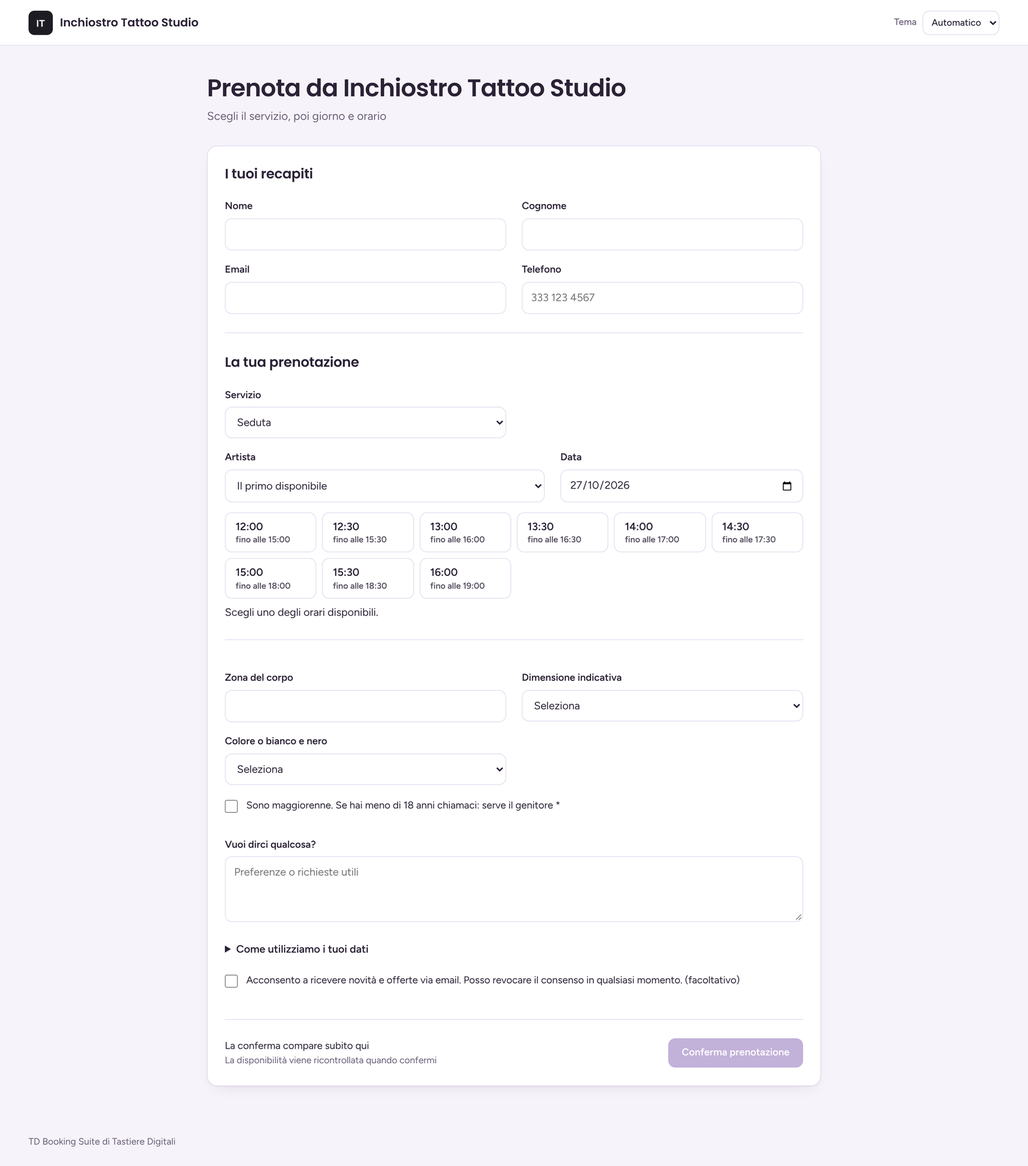
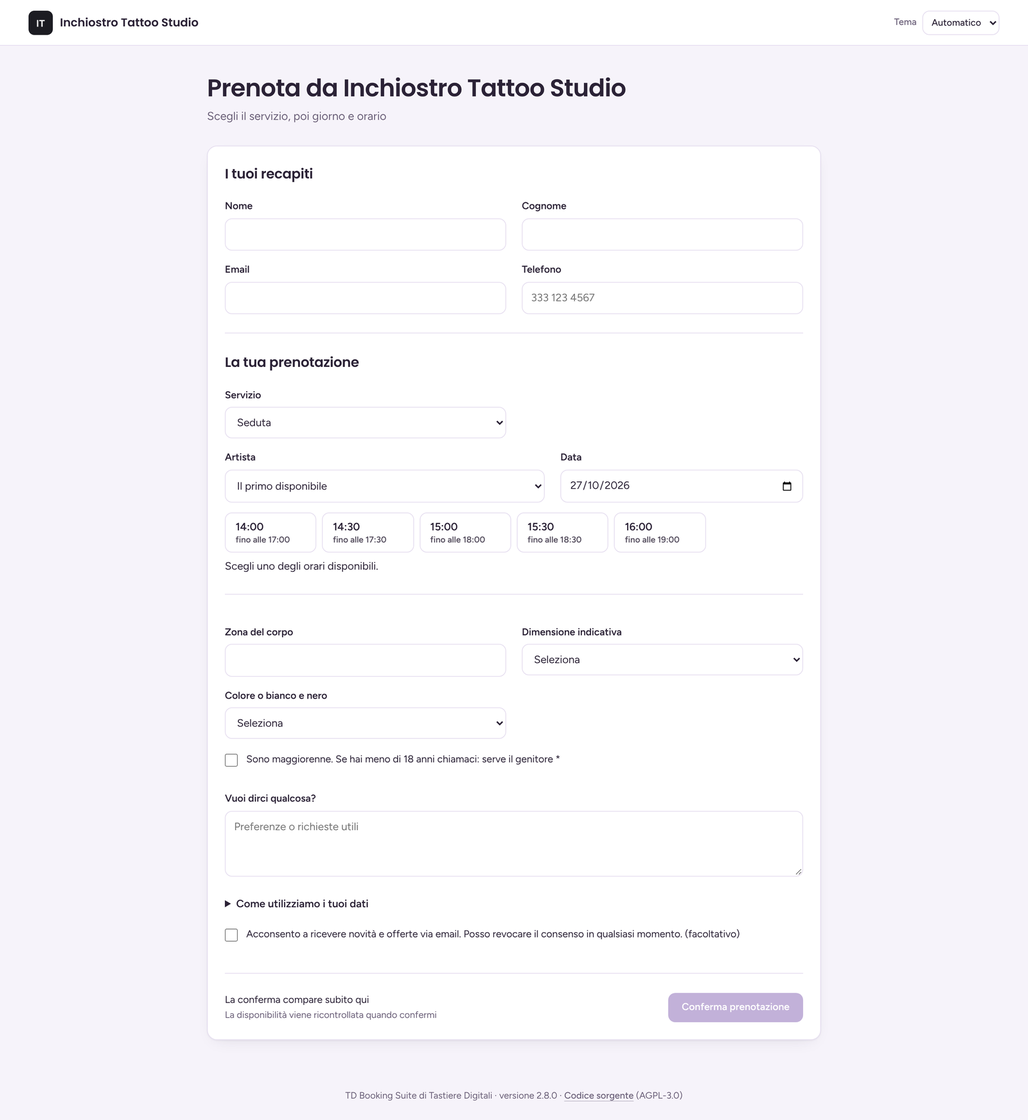
Piede di pagina con versione e codice sorgente (AGPL-3.0), in basso al centro in tutte le pagine
Nella pagina di accesso nome, Privacy e licenza escono dalla colonna del modulo
e vanno in una riga in fondo alla pagina. TDBS_SOURCE_URL cambia o nasconde il link.

Claude-Session: https://claude.ai/code/session_01HhmNK72iFx9khDS8UGdcof

diff --git a/templates/base.html b/templates/base.html
@@ -1,1 +1,1 @@
-{% load static %}<!doctype html><html lang="it"><head><meta charset="utf-8"><meta name="viewport" content="width=device-width,initial-scale=1"><meta name="color-scheme" content="light dark"><title>{% if tenant %}{{ tenant.name }}{% else %}{{ site.name }}{% endif %}</title><link rel="icon" href="{% url 'site_favicon' %}?v={{ site.version }}"><link rel="stylesheet" href="{% static 'app.css' %}">{% if not public %}<link rel="stylesheet" href="{% url 'site_css' %}?v={{ site.version }}">{% endif %}{% if tenant and public %}<link rel="stylesheet" href="{% url 'brand_css' tenant.slug %}">{% endif %}<script src="{% static 'app.js' %}" defer></script></head><body class="{% if public %}public{% endif %}"{% block autofill %}{% if public %} data-autofill="contact"{% endif %}{% endblock %}><a class="skip" href="#main">Vai al contenuto</a>{% if user.is_authenticated and mfa_ok and not public %}<aside class="sidebar"><a class="logo{% if site.dark_wide %} logo-wide{% endif %}" href="/">{% include '_brand.html' with surface='dark' %}<span>{% if not site.dark_wide %}{% if edition == 'private' and tenant %}{{ tenant.name }}{% else %}{{ site.name }}{% endif %}{% endif %}<small>{% if site.dark_wide and edition == 'private' and tenant %}{{ tenant.name }}, {% endif %}Edizione {% if edition == 'private' %}Private{% else %}Cloud{% endif %}</small></span></a><button type="button" class="menu-toggle" data-menu aria-expanded="false"><span class="burger" aria-hidden="true"><i></i><i></i><i></i></span>Menu</button>{% if user.is_staff %}<nav aria-label="Area agenzia"><div class="nav-label">Area agenzia</div><a href="{% url 'platform' %}">Dashboard</a><a href="{% url 'clients' %}">Clienti</a>{% if edition == 'cloud' %}<a href="{% url 'trial_requests' %}">Richieste di prova{% if trial_new %} <span class="nav-count">{{ trial_new }}</span>{% endif %}</a>{% endif %}<a href="{% url 'site_settings' %}">Impostazioni generali</a>{% if edition == 'cloud' %}<a href="{% url 'pricing_admin' %}">Prezzi e versioni</a><a href="{% url 'site_plugin' %}">Plugin WordPress</a>{% endif %}{% if not tenant %}<a href="{% url 'guide' %}">Guida</a>{% endif %}</nav>{% endif %}{% if tenant %}<div class="workspace">{% if tenant.logo %}<span class="workspace-logo{% if tenant.logo_wide %} wide{% endif %}"><img src="{% url 'brand_logo' tenant.slug %}" alt=""></span>{% endif %}<span class="eyebrow">Stai lavorando in</span><strong>{{ tenant.name }}</strong><span class="role">{% if member %}{{ member.get_role_display }}{% elif support %}Assistenza dell'agenzia, fino alle {{ support.expires|date:"H:i" }}{% else %}Agenzia: solo gestione tecnica{% endif %}</span></div><nav aria-label="Menu dell'attività">{% if support %}<p class="notice">Ogni pagina che apri viene registrata e l'amministratore dell'attività la vede nel registro</p>{% endif %}{% if 'booking.read' in can or 'contacts.read' in can %}<div class="nav-label">Ogni giorno</div>{% if 'booking.read' in can %}<a href="{% url 'dashboard' tenant.slug %}">Dashboard</a><a href="{% url 'bookings' tenant.slug %}">Agenda e prenotazioni</a>{% endif %}{% if 'contacts.read' in can %}<a href="{% url 'contacts' tenant.slug %}">Clienti</a>{% endif %}{% endif %}{% if 'catalog.write' in can or 'users.manage' in can %}<div class="nav-label">La tua attività</div>{% if 'catalog.write' in can %}<a href="{% url 'setup' tenant.slug %}">Configura l'attività</a>{% endif %}{% if 'users.manage' in can %}<a href="{% url 'members' tenant.slug %}">Persone e permessi</a>{% endif %}{% endif %}{% if 'campaign.manage' in can or 'users.manage' in can %}<div class="nav-label">Comunicazioni</div>{% if 'campaign.manage' in can %}<a href="{% url 'marketing' tenant.slug %}">Marketing</a>{% endif %}{% if 'users.manage' in can %}<a href="{% url 'notifications' tenant.slug %}">Notifiche</a>{% endif %}{% endif %}{% if 'audit.read' in can or 'users.manage' in can %}<div class="nav-label">Controlli</div>{% if 'audit.read' in can %}<a href="{% url 'audit' tenant.slug %}">Registro attività</a>{% endif %}{% if 'users.manage' in can %}<a href="{% url 'support_grants' tenant.slug %}">Accesso dell'agenzia</a>{% endif %}{% endif %}{% if user.is_staff %}<div class="nav-label">Gestione tecnica, solo agenzia</div>{% if not member %}<a href="{% url 'members' tenant.slug %}">Persone e permessi</a>{% endif %}<a href="{% url 'tenant_settings' tenant.slug %}">Impostazioni e sito</a><a href="{% url 'smtp' tenant.slug %}">Invio email</a>{% endif %}<div class="nav-label">Aiuto</div><a href="{% url 'tenant_guide' tenant.slug %}">Guida</a></nav>{% elif not user.is_staff %}<nav><a href="/">Le tue attività</a><a href="{% url 'guide' %}">Guida</a></nav>{% endif %}<div class="sidebar-bottom"><span class="who">{{ user.email }}</span><span class="who-role">{% if user.is_staff %}Amministratore dell'agenzia{% elif member %}{{ member.get_role_display }}{% endif %}</span><a href="{% url 'security' %}">Account e sicurezza</a></div></aside>{% endif %}<div class="shell {% if not user.is_authenticated or not mfa_ok or public %}full{% endif %}">{% block topbar %}<header class="topbar"><div>{% if public %}<a class="wordmark" href="{% url 'public_booking' tenant.slug %}">{% if tenant.logo %}<img class="brand-logo{% if tenant.logo_wide %} wide{% endif %}" src="{% url 'brand_logo' tenant.slug %}" alt="{% if tenant.logo_wide %}{{ tenant.name }}{% endif %}">{% endif %}{% if not tenant.logo_wide %}{{ tenant.name }}{% endif %}</a>{% elif tenant %}<span class="crumb">{% if tenant.logo %}<img class="crumb-logo{% if tenant.logo_wide %} wide{% endif %}" src="{% url 'brand_logo' tenant.slug %}" alt="">{% endif %}{% if user.is_staff %}<a href="{% url 'platform' %}">Area agenzia</a> <span aria-hidden="true">/</span> <a href="{% url 'client' tenant.slug %}"><strong>{{ tenant.name }}</strong></a>{% else %}<strong>{{ tenant.name }}</strong>{% endif %} <span class="badge">{% if member %}{{ member.get_role_display }}{% elif support %}Assistenza{% else %}Gestione tecnica{% endif %}</span></span>{% elif user.is_authenticated and mfa_ok %}<span class="crumb">{% if user.is_staff %}<strong>Area agenzia</strong> <span class="badge">Amministratore</span>{% else %}Le tue attività{% endif %}</span>{% else %}<a class="wordmark" href="/">{% include '_brand.html' with surface='auto' %}{% if not site.light_wide %}{{ site.name }}{% endif %}</a>{% endif %}</div><div class="toolbar"><label class="theme-label">Tema<select id="theme-choice" aria-label="Tema"><option value="auto">Automatico</option><option value="light">Chiaro</option><option value="dark">Scuro</option></select></label>{% if user.is_authenticated and not public %}<form method="post" action="{% url 'logout' %}">{% csrf_token %}<button class="ghost small">Esci</button></form>{% endif %}</div></header>{% endblock %}<main id="main">{% block notices %}{% if mfa_missing %}<div class="notice warning nudge" role="note"><div><strong>Proteggi il tuo account</strong><span>Ora entri solo con la password. Aggiungi Authenticator o una passkey: servono due minuti</span></div><a class="button small primary" href="{% url 'security' %}">Attiva ora</a></div>{% endif %}{% if messages %}<div aria-live="polite">{% for m in messages %}<div class="notice {{ m.tags }}">{{ m }}</div>{% endfor %}</div>{% endif %}{% if error %}<div class="notice error" role="alert">{{ error }}</div>{% endif %}{% endblock %}{% block content %}{% endblock %}</main>{% block footer %}<footer>{% if edition == 'private' and tenant %}{{ tenant.name }} · Area riservata{% else %}{{ site.name }}{% if site.owner_name %} di {{ site.owner_name }}{% endif %}{% endif %}{% if site.support_email or site.support_phone %} · Assistenza: {% if site.support_email %}<a href="mailto:{{ site.support_email }}">{{ site.support_email }}</a>{% endif %}{% if site.support_email and site.support_phone %}, {% endif %}{{ site.support_phone }}{% endif %}</footer>{% endblock %}</div>{% block scripts %}{% endblock %}</body></html>
+{% load static %}<!doctype html><html lang="it"><head><meta charset="utf-8"><meta name="viewport" content="width=device-width,initial-scale=1"><meta name="color-scheme" content="light dark"><title>{% if tenant %}{{ tenant.name }}{% else %}{{ site.name }}{% endif %}</title><link rel="icon" href="{% url 'site_favicon' %}?v={{ site.version }}"><link rel="stylesheet" href="{% static 'app.css' %}">{% if not public %}<link rel="stylesheet" href="{% url 'site_css' %}?v={{ site.version }}">{% endif %}{% if tenant and public %}<link rel="stylesheet" href="{% url 'brand_css' tenant.slug %}">{% endif %}<script src="{% static 'app.js' %}" defer></script></head><body class="{% if public %}public{% endif %}"{% block autofill %}{% if public %} data-autofill="contact"{% endif %}{% endblock %}><a class="skip" href="#main">Vai al contenuto</a>{% if user.is_authenticated and mfa_ok and not public %}<aside class="sidebar"><a class="logo{% if site.dark_wide %} logo-wide{% endif %}" href="/">{% include '_brand.html' with surface='dark' %}<span>{% if not site.dark_wide %}{% if edition == 'private' and tenant %}{{ tenant.name }}{% else %}{{ site.name }}{% endif %}{% endif %}<small>{% if site.dark_wide and edition == 'private' and tenant %}{{ tenant.name }}, {% endif %}Edizione {% if edition == 'private' %}Private{% else %}Cloud{% endif %}</small></span></a><button type="button" class="menu-toggle" data-menu aria-expanded="false"><span class="burger" aria-hidden="true"><i></i><i></i><i></i></span>Menu</button>{% if user.is_staff %}<nav aria-label="Area agenzia"><div class="nav-label">Area agenzia</div><a href="{% url 'platform' %}">Dashboard</a><a href="{% url 'clients' %}">Clienti</a>{% if edition == 'cloud' %}<a href="{% url 'trial_requests' %}">Richieste di prova{% if trial_new %} <span class="nav-count">{{ trial_new }}</span>{% endif %}</a>{% endif %}<a href="{% url 'site_settings' %}">Impostazioni generali</a>{% if edition == 'cloud' %}<a href="{% url 'pricing_admin' %}">Prezzi e versioni</a><a href="{% url 'site_plugin' %}">Plugin WordPress</a>{% endif %}{% if not tenant %}<a href="{% url 'guide' %}">Guida</a>{% endif %}</nav>{% endif %}{% if tenant %}<div class="workspace">{% if tenant.logo %}<span class="workspace-logo{% if tenant.logo_wide %} wide{% endif %}"><img src="{% url 'brand_logo' tenant.slug %}" alt=""></span>{% endif %}<span class="eyebrow">Stai lavorando in</span><strong>{{ tenant.name }}</strong><span class="role">{% if member %}{{ member.get_role_display }}{% elif support %}Assistenza dell'agenzia, fino alle {{ support.expires|date:"H:i" }}{% else %}Agenzia: solo gestione tecnica{% endif %}</span></div><nav aria-label="Menu dell'attività">{% if support %}<p class="notice">Ogni pagina che apri viene registrata e l'amministratore dell'attività la vede nel registro</p>{% endif %}{% if 'booking.read' in can or 'contacts.read' in can %}<div class="nav-label">Ogni giorno</div>{% if 'booking.read' in can %}<a href="{% url 'dashboard' tenant.slug %}">Dashboard</a><a href="{% url 'bookings' tenant.slug %}">Agenda e prenotazioni</a>{% endif %}{% if 'contacts.read' in can %}<a href="{% url 'contacts' tenant.slug %}">Clienti</a>{% endif %}{% endif %}{% if 'catalog.write' in can or 'users.manage' in can %}<div class="nav-label">La tua attività</div>{% if 'catalog.write' in can %}<a href="{% url 'setup' tenant.slug %}">Configura l'attività</a>{% endif %}{% if 'users.manage' in can %}<a href="{% url 'members' tenant.slug %}">Persone e permessi</a>{% endif %}{% endif %}{% if 'campaign.manage' in can or 'users.manage' in can %}<div class="nav-label">Comunicazioni</div>{% if 'campaign.manage' in can %}<a href="{% url 'marketing' tenant.slug %}">Marketing</a>{% endif %}{% if 'users.manage' in can %}<a href="{% url 'notifications' tenant.slug %}">Notifiche</a>{% endif %}{% endif %}{% if 'audit.read' in can or 'users.manage' in can %}<div class="nav-label">Controlli</div>{% if 'audit.read' in can %}<a href="{% url 'audit' tenant.slug %}">Registro attività</a>{% endif %}{% if 'users.manage' in can %}<a href="{% url 'support_grants' tenant.slug %}">Accesso dell'agenzia</a>{% endif %}{% endif %}{% if user.is_staff %}<div class="nav-label">Gestione tecnica, solo agenzia</div>{% if not member %}<a href="{% url 'members' tenant.slug %}">Persone e permessi</a>{% endif %}<a href="{% url 'tenant_settings' tenant.slug %}">Impostazioni e sito</a><a href="{% url 'smtp' tenant.slug %}">Invio email</a>{% endif %}<div class="nav-label">Aiuto</div><a href="{% url 'tenant_guide' tenant.slug %}">Guida</a></nav>{% elif not user.is_staff %}<nav><a href="/">Le tue attività</a><a href="{% url 'guide' %}">Guida</a></nav>{% endif %}<div class="sidebar-bottom"><span class="who">{{ user.email }}</span><span class="who-role">{% if user.is_staff %}Amministratore dell'agenzia{% elif member %}{{ member.get_role_display }}{% endif %}</span><a href="{% url 'security' %}">Account e sicurezza</a></div></aside>{% endif %}<div class="shell {% if not user.is_authenticated or not mfa_ok or public %}full{% endif %}">{% block topbar %}<header class="topbar"><div>{% if public %}<a class="wordmark" href="{% url 'public_booking' tenant.slug %}">{% if tenant.logo %}<img class="brand-logo{% if tenant.logo_wide %} wide{% endif %}" src="{% url 'brand_logo' tenant.slug %}" alt="{% if tenant.logo_wide %}{{ tenant.name }}{% endif %}">{% endif %}{% if not tenant.logo_wide %}{{ tenant.name }}{% endif %}</a>{% elif tenant %}<span class="crumb">{% if tenant.logo %}<img class="crumb-logo{% if tenant.logo_wide %} wide{% endif %}" src="{% url 'brand_logo' tenant.slug %}" alt="">{% endif %}{% if user.is_staff %}<a href="{% url 'platform' %}">Area agenzia</a> <span aria-hidden="true">/</span> <a href="{% url 'client' tenant.slug %}"><strong>{{ tenant.name }}</strong></a>{% else %}<strong>{{ tenant.name }}</strong>{% endif %} <span class="badge">{% if member %}{{ member.get_role_display }}{% elif support %}Assistenza{% else %}Gestione tecnica{% endif %}</span></span>{% elif user.is_authenticated and mfa_ok %}<span class="crumb">{% if user.is_staff %}<strong>Area agenzia</strong> <span class="badge">Amministratore</span>{% else %}Le tue attività{% endif %}</span>{% else %}<a class="wordmark" href="/">{% include '_brand.html' with surface='auto' %}{% if not site.light_wide %}{{ site.name }}{% endif %}</a>{% endif %}</div><div class="toolbar"><label class="theme-label">Tema<select id="theme-choice" aria-label="Tema"><option value="auto">Automatico</option><option value="light">Chiaro</option><option value="dark">Scuro</option></select></label>{% if user.is_authenticated and not public %}<form method="post" action="{% url 'logout' %}">{% csrf_token %}<button class="ghost small">Esci</button></form>{% endif %}</div></header>{% endblock %}<main id="main">{% block notices %}{% if mfa_missing %}<div class="notice warning nudge" role="note"><div><strong>Proteggi il tuo account</strong><span>Ora entri solo con la password. Aggiungi Authenticator o una passkey: servono due minuti</span></div><a class="button small primary" href="{% url 'security' %}">Attiva ora</a></div>{% endif %}{% if messages %}<div aria-live="polite">{% for m in messages %}<div class="notice {{ m.tags }}">{{ m }}</div>{% endfor %}</div>{% endif %}{% if error %}<div class="notice error" role="alert">{{ error }}</div>{% endif %}{% endblock %}{% block content %}{% endblock %}</main>{% block footer %}<footer>{% if edition == 'private' and tenant %}{{ tenant.name }} · Area riservata{% else %}{{ site.name }}{% if site.owner_name %} di {{ site.owner_name }}{% endif %}{% endif %}{% if site.support_email or site.support_phone %} · Assistenza: {% if site.support_email %}<a href="mailto:{{ site.support_email }}">{{ site.support_email }}</a>{% endif %}{% if site.support_email and site.support_phone %}, {% endif %}{{ site.support_phone }}{% endif %} · {% include '_license.html' %}</footer>{% endblock %}</div>{% block scripts %}{% endblock %}</body></html>

diff --git a/static/app.css b/static/app.css
@@ -81,7 +81,7 @@ textarea{resize:vertical}
 .theme-label{display:flex;align-items:center;gap:8px;margin:0;font-size:13px;font-weight:500;color:var(--muted)}
 .theme-label select{width:auto;min-height:34px;font-size:13px;padding:5px 8px}
 main{width:100%;max-width:1320px;margin:0 auto;padding:36px 40px 32px;flex:1}
-footer{color:var(--muted);font-size:13px;padding:16px 40px 24px}
+footer{color:var(--muted);font-size:13px;padding:16px 40px 24px;text-align:center}.foot-license a{color:inherit;text-decoration:underline;text-underline-offset:3px;text-decoration-color:color-mix(in srgb,currentColor 35%,transparent)}.foot-license a:hover{color:var(--ink)}
 
 /* headings and blocks */
 .page-heading{display:flex;align-items:flex-end;justify-content:space-between;gap:20px;margin-bottom:28px}
@@ -241,7 +241,7 @@ main>form>.actions:last-child{margin-bottom:24px}
 
 /* sign-in, 2.4.0: a living brand panel with a glimpse of the product, a calm form on the side */
 main:has(>.login){max-width:none;padding:0}
-.login{display:grid;grid-template-columns:minmax(0,1.15fr) minmax(420px,.85fr);min-height:100vh}
+.login{display:grid;grid-template-columns:minmax(0,1.15fr) minmax(420px,.85fr);grid-template-rows:1fr auto;min-height:100vh}.login-footer{grid-column:1/-1;display:flex;flex-wrap:wrap;justify-content:center;align-items:center;gap:6px 18px;padding:14px 24px 18px;border-top:1px solid var(--line);background:var(--paper)}
 .login-brand{position:relative;overflow:hidden;isolation:isolate;display:flex;flex-direction:column;gap:36px;padding:44px clamp(32px,5vw,72px);color:#f4eefb;background:linear-gradient(160deg,#35264b,#1f1829 72%)}
 .login-brand::before{content:"";position:absolute;inset:0;z-index:-1;background-image:radial-gradient(#ffffff1c 1px,transparent 1.2px);background-size:22px 22px;-webkit-mask-image:linear-gradient(180deg,#000,transparent 75%);mask-image:linear-gradient(180deg,#000,transparent 75%)}
 .orb{position:absolute;z-index:-2;border-radius:50%;filter:blur(60px);opacity:.75;will-change:transform}
@@ -311,7 +311,7 @@ main:has(>.login){max-width:none;padding:0}
 .passkey-button{min-height:46px}.passkey-button svg{width:18px;height:18px;fill:currentColor}
 .login-form .divider{margin:20px 0 14px}
 .login-help{font-size:13px;color:var(--muted);margin-top:22px}
-.login-foot{font-size:13px;color:var(--muted);margin:24px 0 0}
+.login-foot{font-size:13px;color:var(--muted)}
 @media(max-width:1360px){.stats{display:none}}
 /* 2.4.0 sign-in, second pass: spotlight, rotating business types, shining title, 3D stage, glowing card */
 .spot{position:absolute;z-index:-1;inset:0;background:radial-gradient(420px circle at var(--mx,70%) var(--my,30%),#ffffff1f,transparent 60%);transition:background .2s;pointer-events:none}
@@ -360,7 +360,7 @@ main:has(>.login){max-width:none;padding:0}
 @media(max-width:900px){.login-card{padding:28px 22px 24px;margin-top:0}.trial-cta{margin-bottom:0}.login-kicker{font-size:14px}}
 @media(max-width:420px){.pair{grid-template-columns:1fr}}
 @media(max-width:1100px){.preview-toast{right:-16px}}
-@media(max-width:900px){.login{grid-template-columns:1fr}.login-brand{padding:28px 24px 32px;gap:22px}.login-stage{display:none}.login-copy h1{font-size:30px}.login-points{display:none}.login-panel{padding:32px 20px}.login-badge{display:none}}
+@media(max-width:900px){.login{grid-template-columns:1fr;grid-template-rows:none}.login-brand{padding:28px 24px 32px;gap:22px}.login-stage{display:none}.login-copy h1{font-size:30px}.login-points{display:none}.login-panel{padding:32px 20px}.login-badge{display:none}}
 
 
 /* 2.4.0: security reminder while the account has only a password */
@@ -492,7 +492,7 @@ a.client-card:hover{transform:translateY(-2px);box-shadow:0 14px 30px -18px #2b2
 .trial-rows li{display:flex;align-items:center;gap:12px;padding:10px 12px;border-radius:var(--r-sm);background:var(--bg)}
 .trial-rows li>div{flex:1;min-width:0}.trial-rows strong{display:block;font-weight:600}.trial-rows small{font-size:12px}
 .trial-rows .avatar{width:36px;height:36px;font-size:15px}
-.login-panel{justify-content:center}.login-panel .login-foot{margin-top:28px}
+.login-panel{justify-content:center}
 .login-card::after{content:"";position:absolute;z-index:-1;left:10%;right:10%;bottom:-18px;height:40px;border-radius:50%;background:radial-gradient(closest-side,color-mix(in srgb,var(--violet) 40%,transparent),transparent);filter:blur(12px)}
 .actions form>button{margin-top:0}
 
@@ -523,7 +523,7 @@ a.client-card:hover{transform:translateY(-2px);box-shadow:0 14px 30px -18px #2b2
 .login-badge{margin-bottom:14px}.login-badge .mark,.login-badge img{width:46px;height:46px;border-radius:14px;font-size:16px}
 .login-form h2{font-size:30px}.login-form>.muted{margin-bottom:18px}
 .login-form .divider{margin:16px 0 12px}.login-submit{margin-top:18px}
-.login-help{margin-top:16px}.trial-cta{margin-top:14px;padding:13px 16px}.login-panel .login-foot{margin-top:18px}
+.login-help{margin-top:16px}.trial-cta{margin-top:14px;padding:13px 16px}
 .login-brand{gap:28px;padding-top:36px;padding-bottom:36px}
 .login-stage{margin-bottom:48px}
 @keyframes drift-up{0%{transform:translateY(0) rotate(-4deg);opacity:0}10%{opacity:.4}50%{transform:translateY(-55vh) rotate(3deg)}88%{opacity:.3}100%{transform:translateY(-112vh) rotate(-2deg);opacity:0}}
@@ -619,11 +619,11 @@ main:has(>.showcase){max-width:none;padding:0}
 .show-faq summary{font-weight:600}.show-faq details p{margin:10px 0 0;color:var(--muted)}
 .show-band{display:flex;align-items:center;justify-content:space-between;gap:24px;flex-wrap:wrap;padding:30px 34px;border-radius:24px;color:#f4eefb;background:radial-gradient(60% 120% at 100% 0,#e0569b55,transparent 70%),linear-gradient(160deg,#35264b,#1f1829 75%)}
 .show-band h2{color:#fff;margin:0 0 4px}.show-band p{margin:0;color:#d9cde8}.show-band .show-cta{margin-top:0}
-.show-foot{display:flex;justify-content:space-between;gap:16px;flex-wrap:wrap;max-width:1180px;margin:0 auto;padding:22px clamp(16px,4vw,40px) 30px;color:var(--muted);font-size:13px}
+.show-foot{display:flex;justify-content:center;gap:16px;flex-wrap:wrap;max-width:1180px;margin:0 auto;padding:22px clamp(16px,4vw,40px) 30px;color:var(--muted);font-size:13px}
 .show-foot span{display:flex;gap:18px}
 .policy{max-width:820px;margin:0 auto;padding:34px 38px}.policy h2{font-size:20px;margin:28px 0 8px}.policy h2:first-child{margin-top:0}
 .policy p,.policy li{line-height:1.65}.policy ul{padding-left:20px;margin:6px 0 14px}
-.login-legal{display:flex;justify-content:center;gap:16px;margin:10px 0 0;font-size:13px}.login-legal a{color:var(--muted)}
+.login-legal{display:flex;justify-content:center;gap:16px;font-size:13px}.login-legal a{color:var(--muted)}
 @media(max-width:700px){.show-links{gap:14px}.show-head{margin-top:40px}.policy{padding:24px 20px}.show-band{padding:24px}}
 .show-why{text-align:center;margin:-20px 0 48px}
 .why-points{display:grid;grid-template-columns:repeat(auto-fit,minmax(320px,1fr));gap:18px;margin-bottom:56px}
@@ -739,7 +739,7 @@ main:has(>.showcase){max-width:none;padding:0}
 /* 2.6.0: the title is plain white text: gradient text clipped to the glyphs could stay invisible in some browsers until a repaint */
 .login-copy h1.shine{background:none;color:#fff;-webkit-text-fill-color:#fff;animation:rise .8s .15s both}
 @media(max-width:560px){.type-grid{grid-template-columns:1fr 1fr;gap:8px}.type-tile small{display:none}.type-tile>span{padding:10px 12px}}
-.show-foot .foot-name{display:inline}
+.show-foot .foot-name,.show-foot .foot-license{display:inline}
 /* 2.6.0: how many locations, pills on one line, then any number */
 .loc-count{display:flex;flex-wrap:wrap;align-items:center;gap:12px}
 .count-pills{display:inline-flex;align-items:center;gap:2px;padding:4px;border:1px solid var(--line);border-radius:999px;background:var(--paper)}

diff --git a/templates/why.html b/templates/why.html
@@ -7,5 +7,5 @@
  {% if rows and columns %}<section class="compare"><h2>Cosa cambia, punto per punto</h2><div class="table-scroll"><table><thead><tr><th><span class="sr-only">Voce</span></th>{% for c in columns %}<th{% if forloop.first %} class="ours"{% endif %}>{{ c }}</th>{% endfor %}</tr></thead><tbody>{% for label,cells in rows %}<tr><th scope="row">{{ label }}</th>{% for cell in cells %}<td{% if forloop.first %} class="ours"{% endif %}>{{ cell }}</td>{% endfor %}</tr>{% endfor %}</tbody></table></div>{% if site.why_note %}<p class="show-note compare-note">{{ site.why_note }}</p>{% endif %}</section>{% endif %}
  <section class="show-band"><div><h2>Pronto a provarlo?</h2><p>{% if pricing_on %}Guarda i piani oppure chiedici una prova con la tua attività{% else %}Chiedici una prova con la tua attività{% endif %}</p></div><span class="band-actions">{% if pricing_on %}<a class="button show-ghost" href="{% url 'pricing' %}">Prezzi e versioni</a>{% endif %}{% if trial_available %}<a class="button show-cta" href="{% url 'trial' %}">Richiedi la prova</a>{% endif %}</span></section>
 </div>
-<footer class="show-foot"><span class="foot-name">{{ site.name }}{% if site.owner_name %} di {% include '_owner.html' with prefix='' cls='owner-foot' %}{% endif %}</span><span>{% if pricing_on %}<a href="{% url 'pricing' %}">Prezzi e versioni</a>{% endif %}<a href="{% url 'privacy' %}">Privacy</a><a href="{% url 'login' %}">Accedi</a></span></footer>
+<footer class="show-foot"><span class="foot-name">{{ site.name }}{% if site.owner_name %} di {% include '_owner.html' with prefix='' cls='owner-foot' %}{% endif %}</span><span>{% if pricing_on %}<a href="{% url 'pricing' %}">Prezzi e versioni</a>{% endif %}<a href="{% url 'privacy' %}">Privacy</a><a href="{% url 'login' %}">Accedi</a></span>{% include '_license.html' %}</footer>
 </div>{% endblock %}

diff --git a/templates/login.html b/templates/login.html
@@ -46,7 +46,6 @@
   </div>{% endif %}
  </div>
  {% if trial_available %}<a class="trial-cta" href="{% url 'trial' %}" data-trial-open{% if trial_open %} hidden{% endif %}><span class="cta-icon" aria-hidden="true"><svg viewBox="0 0 24 24"><path d="M12 2l2.4 6.6L21 11l-6.6 2.4L12 20l-2.4-6.6L3 11l6.6-2.4z"/></svg></span><span class="cta-text"><strong>Non sei ancora cliente?</strong><small>Prova il servizio: compili un modulo e ti richiamiamo</small></span><span class="cta-arrow" aria-hidden="true"><svg viewBox="0 0 24 24"><path d="M5 12h13M13 6l6 6-6 6"/></svg></span></a>{% endif %}
- <p class="login-foot">{{ site.name }}{% if site.owner_name %} di {% include '_owner.html' with prefix='' cls='owner-foot' %}{% endif %}{% if site.support_phone %}, {{ site.support_phone }}{% endif %}</p>
- <p class="login-legal">{% if why_on %}<a href="{% url 'why' %}">Perché sceglierci</a>{% endif %}{% if pricing_on %}<a href="{% url 'pricing' %}">Prezzi e versioni</a>{% endif %}<a href="{% url 'privacy' %}">Privacy</a></p>
 </section>
+<footer class="login-footer"><span class="login-foot">{{ site.name }}{% if site.owner_name %} di {% include '_owner.html' with prefix='' cls='owner-foot' %}{% endif %}{% if site.support_phone %}, {{ site.support_phone }}{% endif %}</span><span class="login-legal">{% if why_on %}<a href="{% url 'why' %}">Perché sceglierci</a>{% endif %}{% if pricing_on %}<a href="{% url 'pricing' %}">Prezzi e versioni</a>{% endif %}<a href="{% url 'privacy' %}">Privacy</a></span>{% include '_license.html' %}</footer>
 </div>{% endblock %}

diff --git a/templates/pricing.html b/templates/pricing.html
@@ -10,5 +10,5 @@
  {% if faq %}<section class="show-faq"><h2>Domande frequenti</h2>{% for q,a in faq %}<details><summary>{{ q }}</summary>{% if a %}<p>{{ a }}</p>{% endif %}</details>{% endfor %}</section>{% endif %}
  {% if trial_available %}<section class="show-band"><div><h2>Vuoi vederlo con la tua attività?</h2><p>Lasciaci i tuoi dati: prepariamo il portale per il tuo tipo di attività e ti contattiamo</p></div><a class="button show-cta" href="{% url 'trial' %}">Richiedi la prova</a></section>{% endif %}
 </div>
-<footer class="show-foot"><span class="foot-name">{{ site.name }}{% if site.owner_name %} di {% include '_owner.html' with prefix='' cls='owner-foot' %}{% endif %}</span><span>{% if why_on %}<a href="{% url 'why' %}">Perché sceglierci</a>{% endif %}<a href="{% url 'privacy' %}">Privacy</a><a href="{% url 'login' %}">Accedi</a></span></footer>
+<footer class="show-foot"><span class="foot-name">{{ site.name }}{% if site.owner_name %} di {% include '_owner.html' with prefix='' cls='owner-foot' %}{% endif %}</span><span>{% if why_on %}<a href="{% url 'why' %}">Perché sceglierci</a>{% endif %}<a href="{% url 'privacy' %}">Privacy</a><a href="{% url 'login' %}">Accedi</a></span>{% include '_license.html' %}</footer>
 </div>{% endblock %}

diff --git a/templates/privacy.html b/templates/privacy.html
@@ -3,5 +3,5 @@
  <div class="show-head"><h1>Privacy</h1><p>Come trattiamo i dati di chi usa {{ site.name }}{% if updated %}. Ultimo aggiornamento: {{ updated|date:"d/m/Y" }}{% endif %}</p></div>
 </header>
 <div class="show-body"><article class="card policy">{{ policy }}</article></div>
-<footer class="show-foot"><span class="foot-name">{{ site.name }}{% if site.owner_name %} di {% include '_owner.html' with prefix='' cls='owner-foot' %}{% endif %}</span><span>{% if pricing_on %}<a href="{% url 'pricing' %}">Prezzi e versioni</a>{% endif %}{% if why_on %}<a href="{% url 'why' %}">Perché sceglierci</a>{% endif %}<a href="{% url 'login' %}">Accedi</a></span></footer>
+<footer class="show-foot"><span class="foot-name">{{ site.name }}{% if site.owner_name %} di {% include '_owner.html' with prefix='' cls='owner-foot' %}{% endif %}</span><span>{% if pricing_on %}<a href="{% url 'pricing' %}">Prezzi e versioni</a>{% endif %}{% if why_on %}<a href="{% url 'why' %}">Perché sceglierci</a>{% endif %}<a href="{% url 'login' %}">Accedi</a></span>{% include '_license.html' %}</footer>
 </div>{% endblock %}

diff --git a/templates/_license.html b/templates/_license.html
@@ -1,0 +1,1 @@
+{# AGPL-3.0: whoever uses the portal or the booking page can reach its source code #}<span class="foot-license">versione {{ app_version }}{% if source_url %} · <a href="{{ source_url }}" target="_blank" rel="noopener">Codice sorgente</a> (AGPL-3.0){% endif %}</span>

diff --git a/tests/test_agency.py b/tests/test_agency.py
@@ -206,6 +206,16 @@ def test_login_page_animated_even_with_reduced_motion():  # 2.7.0: Windows with 
     css=open("static/app.css").read();js=open("static/app.js").read()
     assert "reduced-motion" not in css and "reduced-motion" not in js and "style=" not in page
 
+def test_every_footer_links_the_source_code(sample,settings):  # 2.8.0: AGPL-3.0, one footer at the bottom centre
+    t,o,s=sample
+    for path in ("/login/",f"/book/{t.slug}/","/privacy/"):
+        page=Client().get(path).content.decode()
+        assert f"versione {settings.VERSION}" in page and f'href="{settings.SOURCE_URL}"' in page and "(AGPL-3.0)" in page,path
+    page=Client().get("/login/").content.decode()
+    assert page.rindex("</section>")<page.index('class="login-footer"')<page.rindex('href="/privacy/"')  # out of the form column
+    settings.SOURCE_URL=""
+    assert "Codice sorgente" not in Client().get("/login/").content.decode()
+
 # 2.4.0: "Non sei ancora cliente? Prova il servizio"
 from core.models import TrialRequest
 from core import trial as trial_module

diff --git a/tdbooking/settings.py b/tdbooking/settings.py
@@ -13,6 +13,9 @@ SECRET_KEY=os.environ.get("DJANGO_SECRET_KEY","")
 KEYS=json.loads(env("KEYS","{}"))
 ACTIVE_KEY=env("ACTIVE_KEY","v1")
 EDITION=env("EDITION","cloud")
+VERSION=(BASE_DIR/"VERSION").read_text().strip()
+# AGPL-3.0: the footer links here so every user can reach the source; empty hides the link
+SOURCE_URL=env("SOURCE_URL","https://github.com/Giuseppe-sciarra/TD-Booking-Suite").strip()
 PUBLIC_ORIGIN=os.environ.get("PUBLIC_ORIGIN","http://localhost:8000" if DEV else "").rstrip("/")
 if "index" not in KEYS or len(SECRET_KEY)<50 or ACTIVE_KEY not in KEYS or len(base64.urlsafe_b64decode(KEYS[ACTIVE_KEY]))!=32:
     raise RuntimeError("Configurare DJANGO_SECRET_KEY e TDBS_KEYS con chiavi casuali distinte; usare scripts/configure.py.")

diff --git a/core/context.py b/core/context.py
@@ -12,4 +12,4 @@ def presentation(request):
  if user and user.is_authenticated and user.is_staff and settings.EDITION=="cloud":
   from .trial import new_count
   trials=new_count()
- return {"trial_new":trials,"mfa_missing":missing,"site":current(request),"edition":settings.EDITION,"tenant":brand,"member":getattr(request,"member",None),"support":getattr(request,"support",None),"can":can,"mfa_ok":mfa_ok}
+ return {"trial_new":trials,"mfa_missing":missing,"site":current(request),"edition":settings.EDITION,"tenant":brand,"member":getattr(request,"member",None),"support":getattr(request,"support",None),"can":can,"mfa_ok":mfa_ok,"app_version":settings.VERSION,"source_url":settings.SOURCE_URL}

diff --git a/core/site.py b/core/site.py
@@ -196,7 +196,7 @@ def plugin_allowed(request):
     staff_only(request)
 
 def plugin_version():
-    return (settings.BASE_DIR/"VERSION").read_text().strip()
+    return settings.VERSION
 
 def plugin_zip():
     import io,zipfile

diff --git a/CHANGELOG.md b/CHANGELOG.md
@@ -11,6 +11,7 @@
 - **I servizi li gestisce l'attività**, come prima, e un servizio nuovo parte con tutti gli operatori della sede spuntati (prima il salvataggio dava errore). Nel modulo le domande sì/no sono una casella con la frase accanto e stanno prima delle note
 - **Logo dell'attività nel suo portale**: nel menu laterale sopra il nome, nella barra in alto e nell'elenco delle attività; nella pagina prenotazioni il logo orizzontale si vede intero al posto del nome. Il logo mantiene la forma (fino a 800 × 300 px, margini trasparenti tolti, massimo 1 MB), come quello del portale; i loghi già caricati vengono misurati dalla migrazione
 - **Lo stesso cliente si riconosce anche dal telefono online**: chi è stato inserito al banco con il solo numero ritrova la sua scheda quando prenota dal sito. Due email diverse restano due persone anche con lo stesso telefono; la richiesta online non riscrive la scheda e non chiede il consenso marketing per una scheda trovata dal telefono
+- **Piede di pagina con licenza** in tutte le pagine (portale, pagina prenotazioni, accesso, privacy, prezzi): nome del portale, versione e link *Codice sorgente* (AGPL-3.0), in basso al centro. Nella pagina di accesso nome, Privacy e licenza non stanno più sotto il modulo ma in una riga in fondo alla pagina. Il link porta a questo repository; con `TDBS_SOURCE_URL` in `.env` si cambia, vuoto lo nasconde
 
 ### Correzioni
 - **Presa di un account di un'altra attività** (grave): l'amministratore di un'attività poteva invitare l'email dell'utente di un'altra e poi ripristinarne la password vedendo il link a schermo, oppure dargli una password se l'invito non era ancora attivato. Ora una persona che lavora anche altrove si aggiunge soltanto: password e ripristino li gestisce lei o l'agenzia
